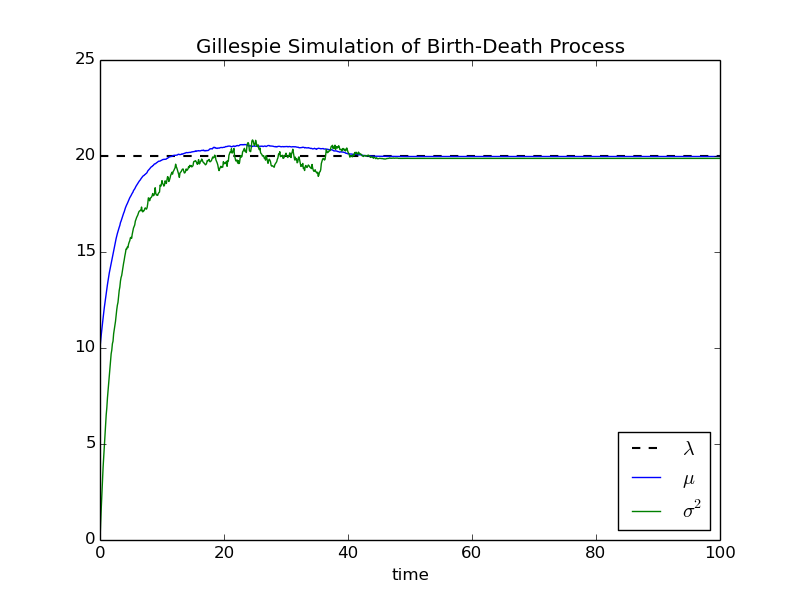
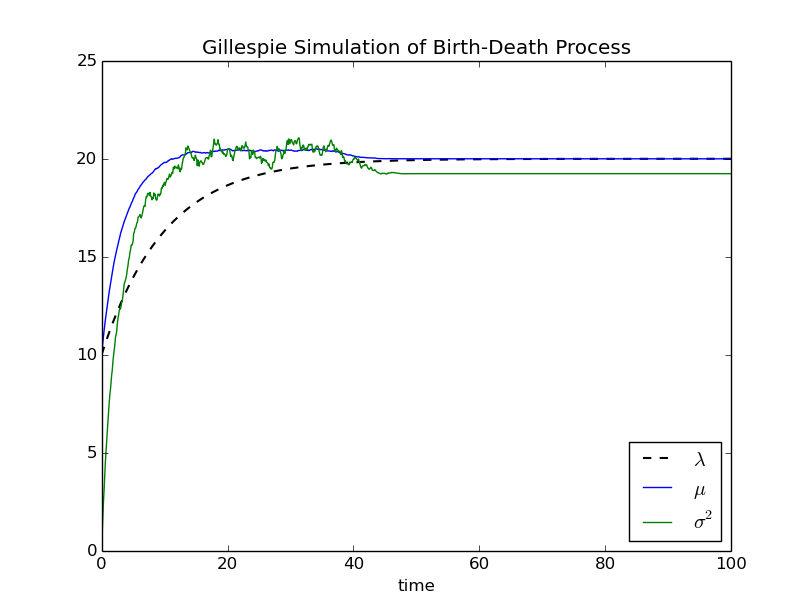
Updated assignment doc and added new results figures. The main python file updated to include calculation of pdf for different times and calculating time average over a trajectory.

diff --git a/gill.py b/gill.py
@@ -18,7 +18,12 @@ def get_mu(a,a0,r2):
         mu = 1
     return mu
 
-nEnsemble = 5000
+def probDensity(x,t,x0,kb,kd):
+    l = kb/kd + (x0-kb/kd)*np.exp(-kd*t)
+    p = np.exp(-l)*(l**x)/(np.math.factorial(x))
+    return p
+
+nEnsemble = 100
 
 dt = 0.1;
 tstop = 100;
@@ -99,37 +104,167 @@ xSkew.insert(0, 0.0)
 
 xVar = [ std**2.0 for std in xStd]
 
-l = [ kb/kd for i in tMean]
+l = [ (kb/kd + (x0-kb/kd)*np.exp(-kd*i)) for i in tMean]
 
-plt.plot(tMean,l, '--k', label='$\lambda$', linewidth=1.5)
-plt.plot(tMean,xMean,label='$\mu$')
-plt.plot(tMean,xVar,label='$\sigma^2$')
-plt.legend(loc=4)
-plt.title('Gillespie Simulation of Birth-Death Process')
-plt.xlabel('time')
-# plt.savefig('results1.png')
+
+
+#### PLOTS for part (iv) ####
+num_bins = int(5*kb/kd)
+
+# first time point
+tIndex = int( 0.10 * (len(tMean)-1));
+t = tMean[tIndex]
+pdf = [];
+for i in xrange(int(5*kb/kd)):
+    pdf.append( probDensity(i,t,x0,kb,kd))
+
+n, bins = np.histogram(x[tIndex], num_bins, [0,int(5*kb/kd)], normed=1)
+dbins = bins[1]-bins[0]
+n = n*dbins
+plt.bar( bins[0:len(bins)-1]-0.5, n, dbins, label='data', alpha=0.7)
+plt.plot(range(int(5*kb/kd)),pdf,'r',label="prediction",linewidth=1.5)
+plt.xlim([min(x[tIndex])-1,max(x[tIndex])+1])
+plt.legend()
+sTitle = 'Probability Distribution of the Birth Death Process, t=%.2f' %t
+plt.title(sTitle)
+plt.xlabel('Population')
+plt.ylabel('Probability Density')
+plt.savefig('pdf1.png')
 plt.show()
 
-l = [ y**(-0.5) for y in l]
+# second time point
+tIndex = int( 0.20 * (len(tMean)-1));
+t = tMean[tIndex]
+pdf = [];
+for i in xrange(int(5*kb/kd)):
+    pdf.append( probDensity(i,t,x0,kb,kd))
 
-plt.plot(tMean,l, '--k', label='$\lambda^{-1/2}$', linewidth=1.5)
-plt.plot(tMean,xSkew,label='$\gamma_1$')
-plt.title('Ensemble Skewness of Birth-Death Process')
-plt.xlabel('time')
-plt.legend(loc=4)
-# plt.savefig('results2.png')
+n, bins = np.histogram(x[tIndex], num_bins, [0,int(5*kb/kd)], normed=1)
+dbins = bins[1]-bins[0]
+n = n*dbins
+plt.bar( bins[0:len(bins)-1]-0.5, n, dbins, label='data', alpha=0.7)
+plt.plot(range(int(5*kb/kd)),pdf,'r',label="prediction",linewidth=1.5)
+plt.xlim([min(x[tIndex])-1,max(x[tIndex])+1])
+plt.legend()
+sTitle = 'Probability Distribution of the Birth Death Process, t=%.2f' %t
+plt.title(sTitle)
+plt.xlabel('Population')
+plt.ylabel('Probability Density')
+plt.savefig('pdf2.png')
 plt.show()
 
-plt.plot(tEnsemble[0],xEnsemble[0])
-plt.plot(tEnsemble[nEnsemble-1],xEnsemble[nEnsemble-1])
-plt.plot(tEnsemble[int(nEnsemble/4)],xEnsemble[int(nEnsemble/4)])
-plt.plot(tEnsemble[nEnsemble-int(nEnsemble/4)],xEnsemble[nEnsemble-int(nEnsemble/4)])
-plt.xlim([0,tstop])
-plt.title('Sample Trajectories')
-plt.xlabel('time')
-plt.ylabel('Population')
-# plt.savefig('results3.png')
+# third time point
+tIndex = int( 0.30 * (len(tMean)-1));
+t = tMean[tIndex]
+pdf = [];
+for i in xrange(int(5*kb/kd)):
+    pdf.append( probDensity(i,t,x0,kb,kd))
+
+n, bins = np.histogram(x[tIndex], num_bins, [0,int(5*kb/kd)], normed=1)
+dbins = bins[1]-bins[0]
+n = n*dbins
+plt.bar( bins[0:len(bins)-1]-0.5, n, dbins, label='data', alpha=0.7)
+plt.plot(range(int(5*kb/kd)),pdf,'r',label="prediction",linewidth=1.5)
+plt.xlim([min(x[tIndex])-1,max(x[tIndex])+1])
+plt.legend()
+sTitle = 'Probability Distribution of the Birth Death Process, t=%.2f' %t
+plt.title(sTitle)
+plt.xlabel('Population')
+plt.ylabel('Probability Density')
+plt.savefig('pdf3.png')
 plt.show()
+
+# fourth time point
+tIndex = int( 0.50 * (len(tMean)-1));
+t = tMean[tIndex]
+pdf = [];
+for i in xrange(int(5*kb/kd)):
+    pdf.append( probDensity(i,t,x0,kb,kd))
+
+n, bins = np.histogram(x[tIndex], num_bins, [0,int(5*kb/kd)], normed=1)
+dbins = bins[1]-bins[0]
+n = n*dbins
+plt.bar( bins[0:len(bins)-1]-0.5, n, dbins, label='data', alpha=0.7)
+plt.plot(range(int(5*kb/kd)),pdf,'r',label="prediction",linewidth=1.5)
+plt.xlim([min(x[tIndex])-1,max(x[tIndex])+1])
+plt.legend()
+sTitle = 'Probability Distribution of the Birth Death Process, t=%.2f' %t
+plt.title(sTitle)
+plt.xlabel('Population')
+plt.ylabel('Probability Density')
+plt.savefig('pdf4.png')
+plt.show()
+
+# fifth time point
+tIndex = len(tMean)-2;
+t = tMean[tIndex]
+pdf = [];
+for i in xrange(int(5*kb/kd)):
+    pdf.append( probDensity(i,t,x0,kb,kd))
+
+n, bins = np.histogram(x[tIndex], num_bins, [0,int(5*kb/kd)], normed=1)
+dbins = bins[1]-bins[0]
+n = n*dbins
+plt.bar( bins[0:len(bins)-1]-0.5, n, dbins, label='data', alpha=0.7)
+plt.plot(range(int(5*kb/kd)),pdf,'r',label="prediction",linewidth=1.5)
+plt.xlim([min(x[tIndex])-1,max(x[tIndex])+1])
+plt.legend()
+sTitle = 'Probability Distribution of the Birth Death Process, t=%.2f' %t
+plt.title(sTitle)
+plt.xlabel('Population')
+plt.ylabel('Probability Density')
+plt.savefig('pdf5.png')
+plt.show()
+#### PLOTS for part (iv) END ####
+
+
+
+# #### PLOTS for part (iii) ####
+# plt.plot(tMean,l, '--k', label='$\lambda$', linewidth=1.5)
+# plt.plot(tMean,xMean,label='$\mu$')
+# plt.plot(tMean,xVar,label='$\sigma^2$')
+# plt.legend(loc=4)
+# plt.title('Gillespie Simulation of Birth-Death Process')
+# plt.xlabel('time')
+# # plt.savefig('results1.png')
+# plt.show()
+#
+# l = [ y**(-0.5) for y in l]
+#
+# plt.plot(tMean,l, '--k', label='$\lambda^{-1/2}$', linewidth=1.5)
+# plt.plot(tMean,xSkew,label='$\gamma_1$')
+# plt.title('Ensemble Skewness of Birth-Death Process')
+# plt.xlabel('time')
+# plt.legend(loc=4)
+# # plt.savefig('results2.png')
+# plt.show()
+#
+# plt.plot(tEnsemble[0],xEnsemble[0])
+# plt.plot(tEnsemble[nEnsemble-1],xEnsemble[nEnsemble-1])
+# plt.plot(tEnsemble[int(nEnsemble/4)],xEnsemble[int(nEnsemble/4)])
+# plt.plot(tEnsemble[nEnsemble-int(nEnsemble/4)],xEnsemble[nEnsemble-int(nEnsemble/4)])
+# plt.xlim([0,tstop])
+# plt.title('Sample Trajectories')
+# plt.xlabel('time')
+# plt.ylabel('Population')
+# # plt.savefig('results3.png')
+# plt.show()
+# #### PLOTS for part (iii) END ####
+
+
+
+#### PLOTS for part (vi) ####
+b = [];
+for i in range(len(xEnsemble)):
+    b.append(np.mean(xEnsemble[i]))
+plt.hist(b);
+plt.xlabel('Time-averaged Population')
+plt.title('Histogram of Time-Averages of all Trajectories')
+plt.savefig('timeAverage.pdf')
+plt.show()
+#### PLOTS for part (vi) ####
+
+
 
 print ' Final Ensemble values: '
 print ' '

diff --git a/assignment/ps3.md b/assignment/ps3.md
@@ -29,7 +29,7 @@ In a simple birth-death process there are two possible reactions. Birth: populat
 Since the birth-death process is a Poisson process we know how the ensemble values should behave.
 
 $$
-\lambda(t) = \frac{k_b}{k_d}(1-e^{-k_dt})
+\lambda(t) = \frac{k_b}{k_d}+(x_0-k_b/k_d)e^{-k_dt}
 $$
 
 $$
@@ -44,3 +44,23 @@ The simulation results are in agreement with our theoretical predictions.
 ![](results2.png)
 
 ## (iv) Probability Distribution
+
+The probability density function for a birth-death process follows a Poisson distribution.
+
+$$
+P(x,t) = \frac{e^{-\lambda(t)}[\lambda(t)]^x}{x!}
+$$
+
+![](pdf1.png)
+![](pdf2.png)
+![](pdf3.png)
+![](pdf4.png)
+![](pdf5.png)
+
+## (v) Auto-Correlation Function
+
+
+
+## (vi) Time-averaging vs. Ensemble-averaging
+
+I did not need to modify my code since to calculate the time-average of a trajectory since my implementation already stores the time trajectory of each ensemble member. Once the simulation is complete we can pick an ensemble member and calculate the time average. Picking a random trajectory we see that the average population is approximately 20 which is equal to $k_b/k_d$ the ensemble average.
